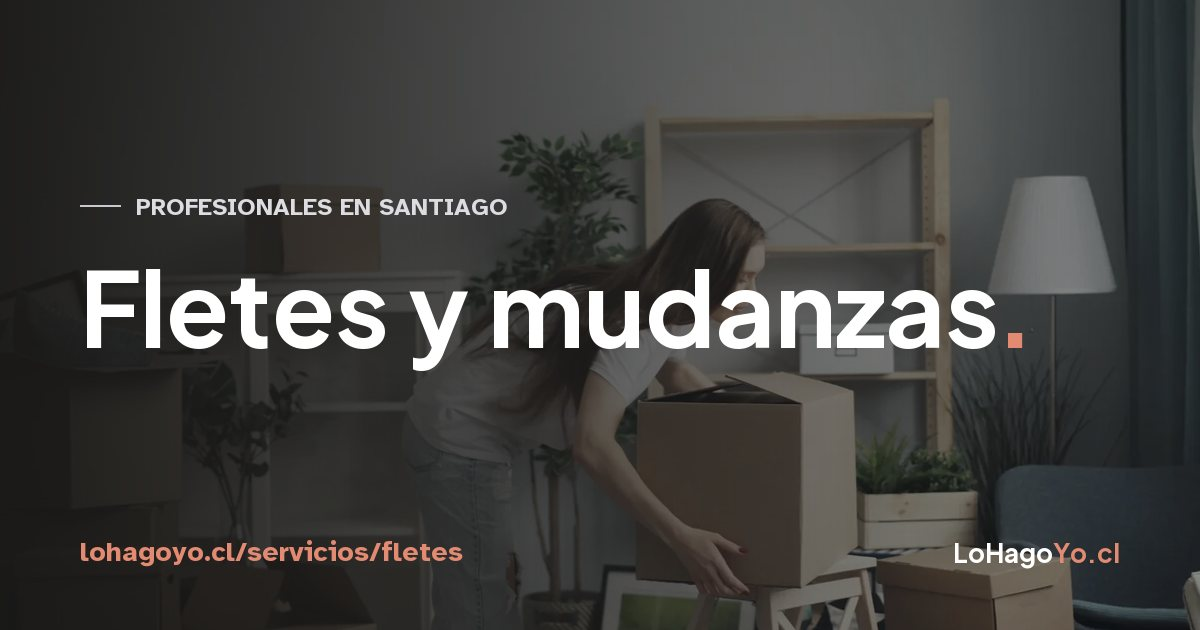
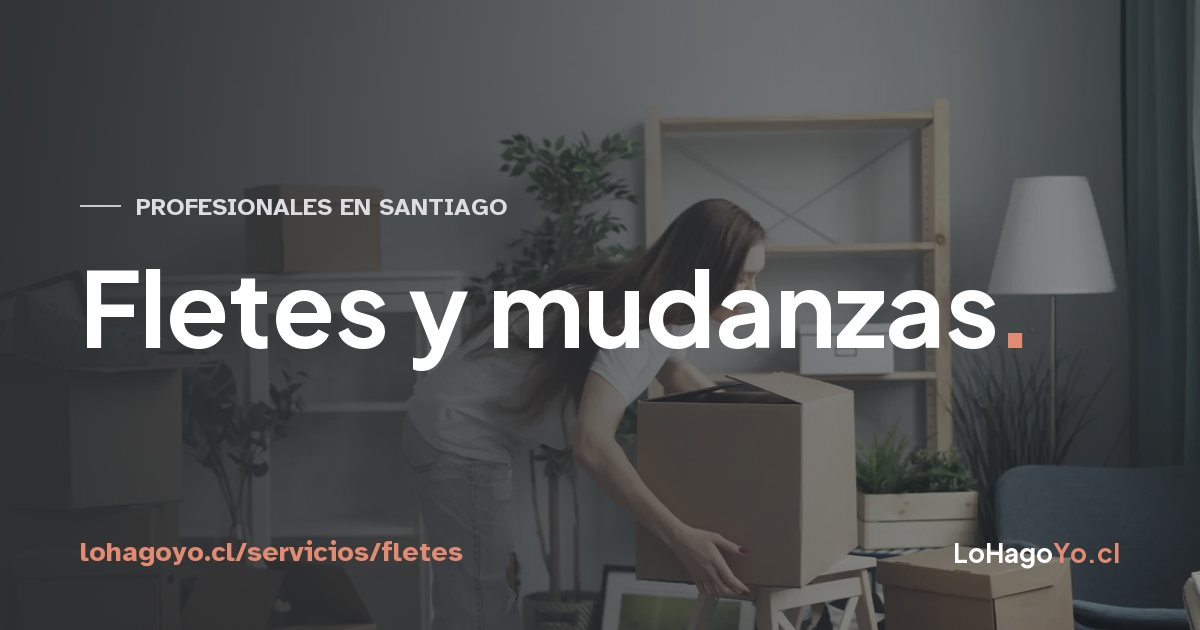
Fundos em grafite e compartilhar página ou tarjeta (imagem) na página do profissional
- Todos os fundos escuros passam de preto para grafite #2E3033
  (blocos, botões, tarjeta Grafito, ícone, prévias do WhatsApp).
- Fim da página: "Compartir página" (link com prévia), "Compartir
  tarjeta" (PNG com fontes e QR, pelo menu do celular ou download) e
  "Descargar PDF para imprimir".

diff --git a/src/components/cartao/AcoesCartao.tsx b/src/components/cartao/AcoesCartao.tsx
@@ -1,47 +1,80 @@
-// Botões da tarjeta na página pública do profissional: baixar o PDF e compartilhar.
+// Ações no fim da página do profissional: compartilhar a página, compartilhar a tarjeta (imagem)
+// e baixar o PDF para imprimir.
 import { useState } from 'react';
 import type { DadosCartao, EstruturaId } from './desenho';
 import type { TemaId } from './temas';
 
 export default function AcoesCartao({ dados, estrutura, tema }: { dados: DadosCartao; estrutura: EstruturaId; tema: TemaId }) {
   const [estado, setEstado] = useState('');
+  const base = dados.urlCurta.split('/').pop() || 'tarjeta';
+  const texto = `${dados.marca} · ${dados.oficio}`;
 
-  async function baixar() {
-    setEstado('Generando…');
-    try {
-      const { gerarPdfCartao } = await import('./gerarPdf');
-      const bytes = await gerarPdfCartao(dados, estrutura, tema, 'imprenta');
-      const a = document.createElement('a');
-      a.href = URL.createObjectURL(new Blob([bytes as BlobPart], { type: 'application/pdf' }));
-      a.download = `tarjeta-${dados.urlCurta.split('/').pop()}.pdf`;
-      a.click();
-      setTimeout(() => URL.revokeObjectURL(a.href), 4000);
-      setEstado('');
-    } catch {
-      setEstado('No se pudo generar. Inténtalo de nuevo.');
-    }
+  function baixar(blob: Blob, nome: string) {
+    const a = document.createElement('a');
+    a.href = URL.createObjectURL(blob);
+    a.download = nome;
+    a.click();
+    setTimeout(() => URL.revokeObjectURL(a.href), 4000);
   }
 
-  async function compartilhar() {
-    const texto = `${dados.marca} · ${dados.oficio}`;
+  async function compartilharPagina() {
+    setEstado('');
     if (navigator.share) {
       try { await navigator.share({ title: dados.marca, text: texto, url: dados.url }); } catch { /* cancelado */ }
       return;
     }
     try {
       await navigator.clipboard.writeText(dados.url);
-      setEstado('Enlace copiado.');
+      setEstado('Enlace copiado. Pégalo en WhatsApp o donde quieras.');
     } catch {
       window.open(`https://wa.me/?text=${encodeURIComponent(`${texto} ${dados.url}`)}`, '_blank', 'noopener');
     }
   }
 
+  async function compartilharTarjeta() {
+    setEstado('Preparando la tarjeta…');
+    try {
+      const { gerarPngCartao } = await import('./imagem');
+      const png = await gerarPngCartao(dados, estrutura, tema);
+      const arquivo = new File([png], `tarjeta-${base}.png`, { type: 'image/png' });
+      if (navigator.canShare?.({ files: [arquivo] })) {
+        setEstado('');
+        try { await navigator.share({ files: [arquivo], title: dados.marca, text: `${texto} · ${dados.url}` }); } catch { /* cancelado */ }
+        return;
+      }
+      baixar(png, arquivo.name);
+      setEstado('Tarjeta descargada como imagen. Envíala por WhatsApp o donde quieras.');
+    } catch (e) {
+      console.error(e);
+      setEstado('No se pudo preparar la tarjeta. Inténtalo de nuevo.');
+    }
+  }
+
+  async function baixarPdf() {
+    setEstado('Generando PDF…');
+    try {
+      const { gerarPdfCartao } = await import('./gerarPdf');
+      const bytes = await gerarPdfCartao(dados, estrutura, tema, 'imprenta');
+      baixar(new Blob([bytes as BlobPart], { type: 'application/pdf' }), `tarjeta-${base}.pdf`);
+      setEstado('');
+    } catch {
+      setEstado('No se pudo generar el PDF. Inténtalo de nuevo.');
+    }
+  }
+
   return (
     <div className="ac">
-      <button type="button" className="btn btn-escuro-sem" onClick={compartilhar}>Compartir</button>
-      <button type="button" className="btn btn-ghost" onClick={baixar}>Descargar tarjeta</button>
-      {estado && <span className="ac-estado" role="status">{estado}</span>}
-      <style>{`.ac{display:flex;gap:10px;flex-wrap:wrap;align-items:center}.btn-escuro-sem{background:var(--ink);color:#fff}.btn-escuro-sem:hover{background:#000}.ac-estado{color:var(--muted);font-size:.9rem}`}</style>
+      <button type="button" className="btn ac-principal" onClick={compartilharPagina}>Compartir página</button>
+      <button type="button" className="btn btn-ghost" onClick={compartilharTarjeta}>Compartir tarjeta</button>
+      <button type="button" className="ac-link" onClick={baixarPdf}>Descargar PDF para imprimir</button>
+      {estado && <p className="ac-estado" role="status">{estado}</p>}
+      <style>{`
+        .ac{display:flex;gap:10px;flex-wrap:wrap;align-items:center}
+        .ac-principal{background:var(--fundo-escuro);color:#fff}.ac-principal:hover{background:var(--fundo-escuro-hover)}
+        .ac-link{width:100%;text-align:left;background:none;border:0;padding:4px 0;font:inherit;font-size:.9rem;color:var(--muted);text-decoration:underline;cursor:pointer}
+        .ac-link:hover{color:var(--ink)}
+        .ac-estado{width:100%;margin:0;color:var(--muted);font-size:.9rem}
+      `}</style>
     </div>
   );
 }

diff --git a/src/components/cartao/imagem.ts b/src/components/cartao/imagem.ts
@@ -1,0 +1,81 @@
+// Tarjeta como imagem PNG no navegador (para compartilhar no WhatsApp etc.).
+// Usa o mesmo desenho do PDF; as fontes vão embutidas no SVG para o canvas desenhar igual.
+import { desenharCartao, H, W, type DadosCartao, type EstruturaId, type Medir } from './desenho';
+import { cartaoSvg } from './render-svg';
+import type { TemaId } from './temas';
+
+const FONTES_CSS: Record<string, string> = {
+  nome: "700 10px 'Plus Jakarta Sans'",
+  reg: "400 10px 'Atkinson Hyperlegible'",
+  neg: "700 10px 'Atkinson Hyperlegible'",
+};
+
+/** Mede o texto com as fontes já carregadas pela página. */
+export async function criarMedidorCanvas(): Promise<Medir> {
+  await Promise.all(Object.values(FONTES_CSS).map((f) => document.fonts.load(f, 'Aá0')));
+  const ctx = document.createElement('canvas').getContext('2d')!;
+  const cache = new Map<string, number>();
+  return (fonte, txt, tam) => {
+    const k = fonte + '|' + txt;
+    let w = cache.get(k);
+    if (w == null) {
+      ctx.font = FONTES_CSS[fonte];
+      w = ctx.measureText(txt).width / 10;
+      cache.set(k, w);
+    }
+    return w * tam;
+  };
+}
+
+async function base64(url: string): Promise<string> {
+  const b = new Uint8Array(await (await fetch(url)).arrayBuffer());
+  let s = '';
+  for (let i = 0; i < b.length; i += 0x8000) s += String.fromCharCode(...b.subarray(i, i + 0x8000));
+  return btoa(s);
+}
+
+let fontesEmbutidas: Promise<string> | null = null;
+function estiloFontes(): Promise<string> {
+  fontesEmbutidas ??= Promise.all([
+    base64('/fonts/plus-jakarta-sans-latin-700-normal.woff2'),
+    base64('/fonts/atkinson-hyperlegible-latin-400-normal.woff2'),
+    base64('/fonts/atkinson-hyperlegible-latin-700-normal.woff2'),
+  ]).then(([j7, a4, a7]) => `<style>
+    @font-face{font-family:'Plus Jakarta Sans';font-weight:700;src:url(data:font/woff2;base64,${j7}) format('woff2')}
+    @font-face{font-family:'Atkinson Hyperlegible';font-weight:400;src:url(data:font/woff2;base64,${a4}) format('woff2')}
+    @font-face{font-family:'Atkinson Hyperlegible';font-weight:700;src:url(data:font/woff2;base64,${a7}) format('woff2')}
+  </style>`);
+  return fontesEmbutidas;
+}
+
+/** PNG da tarjeta, com margem e sombra suaves (ficha pronta para mandar). */
+export async function gerarPngCartao(dados: DadosCartao, estrutura: EstruturaId, tema: TemaId, largura = 1200): Promise<Blob> {
+  const medir = await criarMedidorCanvas();
+  const svg = cartaoSvg(desenharCartao(estrutura, tema, dados, medir, 0), 'png').replace('<defs>', `<defs>${await estiloFontes()}`);
+  const img = new Image();
+  img.decoding = 'sync';
+  const url = URL.createObjectURL(new Blob([svg], { type: 'image/svg+xml' }));
+  try {
+    img.src = url;
+    await img.decode();
+    const margem = Math.round(largura * 0.06);
+    const w = largura - 2 * margem;
+    const h = Math.round((w * H) / W);
+    const c = document.createElement('canvas');
+    c.width = largura;
+    c.height = h + 2 * margem;
+    const ctx = c.getContext('2d')!;
+    ctx.fillStyle = '#e6e6e4';
+    ctx.fillRect(0, 0, c.width, c.height);
+    ctx.shadowColor = 'rgba(26, 25, 24, 0.25)';
+    ctx.shadowBlur = margem * 0.6;
+    ctx.shadowOffsetY = margem * 0.2;
+    ctx.fillStyle = '#fff';
+    ctx.fillRect(margem, margem, w, h);
+    ctx.shadowColor = 'transparent';
+    ctx.drawImage(img, margem, margem, w, h);
+    return await new Promise<Blob>((ok, erro) => c.toBlob((b) => (b ? ok(b) : erro(new Error('png'))), 'image/png'));
+  } finally {
+    URL.revokeObjectURL(url);
+  }
+}

diff --git a/src/styles/painel.css b/src/styles/painel.css
@@ -52,7 +52,7 @@
 .pn-slug input { border: 0; min-height: 46px; padding-left: 2px; outline: none !important; }
 .pn-chips { display: flex; flex-wrap: wrap; gap: 8px; }
 .pn-chip { font: inherit; font-size: .9rem; font-weight: 700; padding: 8px 14px; border-radius: 999px; border: 1px solid var(--line); background: #fff; color: var(--ink); cursor: pointer; }
-.pn-chip.ativo { background: var(--ink); border-color: var(--ink); color: #fff; }
+.pn-chip.ativo { background: var(--fundo-escuro); border-color: var(--fundo-escuro); color: #fff; }
 .pn-check { display: flex; gap: 10px; align-items: flex-start; font-size: .95rem; }
 .pn-check input { width: 20px; height: 20px; margin-top: 2px; accent-color: var(--ink); flex: none; }
 .pn-linha { display: grid; grid-template-columns: 1fr 1fr; gap: 12px; }
@@ -66,7 +66,7 @@
 .pn-foto-acoes { display: flex; flex-wrap: wrap; gap: 8px; align-items: center; }
 .pn-foto-acoes strong { width: 100%; }
 .pn-trabalhos { display: grid; gap: 16px; }
-.pn-modal { position: fixed; inset: 0; z-index: 50; background: rgba(26, 25, 24, .55); display: grid; place-items: center; padding: 16px; }
+.pn-modal { position: fixed; inset: 0; z-index: 50; background: rgba(46, 48, 51, .6); display: grid; place-items: center; padding: 16px; }
 .pn-modal-caixa { background: #fff; border-radius: 14px; width: min(760px, 100%); max-height: 86vh; overflow: auto; padding: 18px; }
 .pn-modal-caixa header { display: flex; justify-content: space-between; align-items: center; margin-bottom: 12px; }
 .pn-modal-caixa h3 { margin: 0; }
@@ -100,7 +100,7 @@
 
 .pn-abas { display: grid; grid-template-columns: 1fr 1fr; background: #fff; border: 1px solid var(--line); border-radius: 10px; padding: 4px; margin-bottom: 18px; }
 .pn-abas button { font: inherit; font-weight: 700; border: 0; background: none; padding: 10px; border-radius: 7px; cursor: pointer; color: var(--muted); }
-.pn-abas button.ativo { background: var(--ink); color: #fff; }
+.pn-abas button.ativo { background: var(--fundo-escuro); color: #fff; }
 .pn-esqueci { margin-top: 12px; display: inline-block; }
 .md-uid { display: inline-block; padding: 8px 12px; background: #fff; border: 1px solid var(--line); border-radius: 8px; user-select: all; }
 .md-sem-foto { width: 64px; height: 64px; border-radius: 50%; background: #fff3d6; display: grid; place-items: center; font-size: .7rem; color: #6b5200; flex: none; }
@@ -113,7 +113,7 @@
 .cv { display: grid; gap: 10px; background: var(--bg); border-radius: 12px; padding: 14px; }
 .cv-lista { display: grid; gap: 8px; max-height: 320px; overflow-y: auto; }
 .cv-msg { background: #fff; border: 1px solid var(--line); border-radius: 12px 12px 12px 4px; padding: 10px 12px; max-width: 85%; justify-self: start; }
-.cv-msg.meu { justify-self: end; background: var(--ink); color: #fff; border-color: var(--ink); border-radius: 12px 12px 4px 12px; }
+.cv-msg.meu { justify-self: end; background: var(--fundo-escuro); color: #fff; border-color: var(--ink); border-radius: 12px 12px 4px 12px; }
 .cv-msg span { display: block; font-size: .74rem; opacity: .7; margin-bottom: 2px; }
 .cv-msg p { margin: 0; white-space: pre-wrap; }
 .cv-form { display: grid; grid-template-columns: 1fr auto; gap: 8px; align-items: end; }

diff --git a/src/components/FormAvaliacao.tsx b/src/components/FormAvaliacao.tsx
@@ -72,7 +72,7 @@ const css = `
         .fa-notas legend{font-weight:700;font-size:.92rem;margin-bottom:6px}
         .fa-notas button{font-size:1.8rem;line-height:1;background:none;border:0;cursor:pointer;color:#d4d1ca;padding:2px}
         .fa-notas button.on{color:var(--accent)}
-        .fa-enviar{background:var(--ink);color:#fff;justify-self:start}
+        .fa-enviar{background:var(--fundo-escuro);color:#fff;justify-self:start}
         .fa-nota{color:var(--muted);font-size:.84rem;margin:0}
         .fa-erro{color:#a32020;margin:0}
         .fa-ok{background:var(--bg);border-radius:12px;padding:16px}
@@ -87,8 +87,8 @@ const css = `
   .fa-sobre{display:flex;align-items:center;gap:12px;font-size:.74rem;font-weight:700;letter-spacing:.16em;text-transform:uppercase;margin:0 0 14px!important}
   .fa-sobre span{width:28px;height:1px;background:currentColor}
   .fa-ponto{color:var(--accent)}
-  .fa-botao{background:var(--ink);color:#fff;min-height:54px;padding:0 28px;font-size:1.02rem}
+  .fa-botao{background:var(--fundo-escuro);color:#fff;min-height:54px;padding:0 28px;font-size:1.02rem}
   .fa-botao span{color:var(--sol)}
-  .fa-botao:hover{background:#000}
+  .fa-botao:hover{background:var(--fundo-escuro-hover)}
   .fa{background:var(--grafite-claro);border-radius:24px;padding:clamp(24px,5vw,44px)}
 `;

diff --git a/src/styles/global.css b/src/styles/global.css
@@ -16,10 +16,12 @@
   --accent-soft: #f5e6e2;
   --sol: #c4513b; /* tijolo claro (sobre fondo oscuro) */
   --ok: #1f8a4c;
+  --fundo-escuro: #2e3033; /* grafite: todos os fundos escuros (não usar preto) */
+  --fundo-escuro-hover: #25272a;
   --grafite-claro: #e6e6e4; /* fundos de seção */
   --grafite-medio: #3b3d40; /* blocos escuros secundários */
   --grafite-suave: #9a9c9f; /* textos sobre escuro */
-  --wa: #1a1918;
+  --wa: var(--fundo-escuro);
   --radius: 6px;
   --shadow: 0 1px 2px rgba(26, 25, 24, 0.04);
   --wrap: 1120px;
@@ -75,9 +77,9 @@ img { max-width: 100%; height: auto; display: block; }
 .btn:active { transform: scale(0.97); }
 .btn-wa { background: var(--wa); color: #fff; }
 .btn-wa::before { content: ''; width: 8px; height: 8px; border-radius: 50%; background: #25d366; }
-.btn-wa:hover { background: #000; }
-.btn-primary { background: var(--ink); color: #fff; }
-.btn-primary:hover { background: #000; }
+.btn-wa:hover { background: var(--fundo-escuro-hover); }
+.btn-primary { background: var(--fundo-escuro); color: #fff; }
+.btn-primary:hover { background: var(--fundo-escuro-hover); }
 .btn-ghost { background: transparent; color: var(--ink); border-color: var(--line); }
 .btn-ghost:hover { border-color: var(--ink); }
 

diff --git a/src/components/cartao/temas.ts b/src/components/cartao/temas.ts
@@ -2,7 +2,7 @@
 import type { PapelLogo } from '../../marca/logo-dados';
 
 export const PALETA = {
-  grafito: '#1A1918',
+  grafito: '#2E3033',
   pizarra: '#3B3D40',
   piedra: '#E6E6E4',
   branco: '#FFFFFF',
@@ -32,7 +32,7 @@ export type TemaId = 'grafito' | 'pizarra' | 'blanco' | 'piedra';
 export const TEMAS: Record<TemaId, TemaCartao> = {
   grafito: {
     id: 'grafito', nome: 'Grafito', fundo: PALETA.grafito, texto: '#FFFFFF', suave: '#A39E97',
-    acento: PALETA.tijoloSuave, painel: '#262422', circulo: '#262422', logo: LOGO_ESCURO,
+    acento: PALETA.tijoloSuave, painel: '#3B3D40', circulo: '#262422', logo: LOGO_ESCURO,
   },
   pizarra: {
     id: 'pizarra', nome: 'Grafito medio', fundo: PALETA.pizarra, texto: '#FFFFFF', suave: '#B4B6B9',

diff --git a/scripts/gerar-og.py b/scripts/gerar-og.py
@@ -12,7 +12,7 @@ from PIL import Image, ImageDraw, ImageFilter, ImageFont
 R = os.path.dirname(os.path.dirname(os.path.abspath(__file__)))
 P = lambda *a: os.path.join(R, *a)
 W, H = 1200, 630
-GRAFITO, TIJOLO, TIJOLO_CLARO = (26, 25, 24), (162, 59, 42), (226, 138, 114)
+GRAFITO, TIJOLO, TIJOLO_CLARO = (46, 48, 51), (162, 59, 42), (226, 138, 114)
 F_TIT = P('public/fonts/plus-jakarta-sans-latin-700-normal.woff')
 F_TXT = P('public/fonts/atkinson-hyperlegible-latin-700-normal.woff')
 

diff --git a/docs/ESTADO-ATUAL.md b/docs/ESTADO-ATUAL.md
@@ -46,6 +46,8 @@ npm run build
 - **Endereço completo obrigatório** (calle, número, comuna) e público na página, com link para o mapa.
 - **Avaliações**: visitante deixa nome, e-mail (privado), nota e comentário → confirma pelo e-mail (`/api/confirmar` → função) → "Por revisar" no admin (aba Evaluaciones) → opcional "Enviar al profesional" com **conversa privada** no painel dos dois (aviso por e-mail a cada mensagem) → Publicar / Editar / Rechazar / Eliminar / "+ Agregar evaluación". No site: só primeiro nome, nota, comentário e resposta pública; seção, link e nota média só aparecem a partir da primeira aprovada.
 - Funções: `aoMudarPublicado`, `aoMudarAvaliacao`, `confirmarAvaliacao`, `aoNovaMensagem` (e-mails via SMTP hola@lohagoyo.cl, segredo `SMTP_SENHA`).
+- **Fundos escuros em grafite** `#2E3033` (token `--fundo-escuro`; nunca preto puro). Textos seguem em quase-preto.
+- **Compartilhar** (fim da página do profissional): "Compartir página" (link com prévia OG), "Compartir tarjeta" (PNG gerado no navegador, `src/components/cartao/imagem.ts`, compartilhado pelo menu do celular ou baixado no computador) e "Descargar PDF para imprimir".
 - **Bloqueio automático**: 5 avaliações confirmadas com nota ≤ 2 (não recusadas) → perfil `bloqueado`, sai do site, aba "Bloqueados" no admin ("Desbloquear y publicar"); o dono não edita enquanto bloqueado. Constantes `LIMITE_MAS`/`NOTA_MA` em `functions/index.js`.
 - Após `importar-perfil.mjs`, rodar `node scripts/publicar-snapshot.mjs <slug>` (ou aprovar no admin).
 
